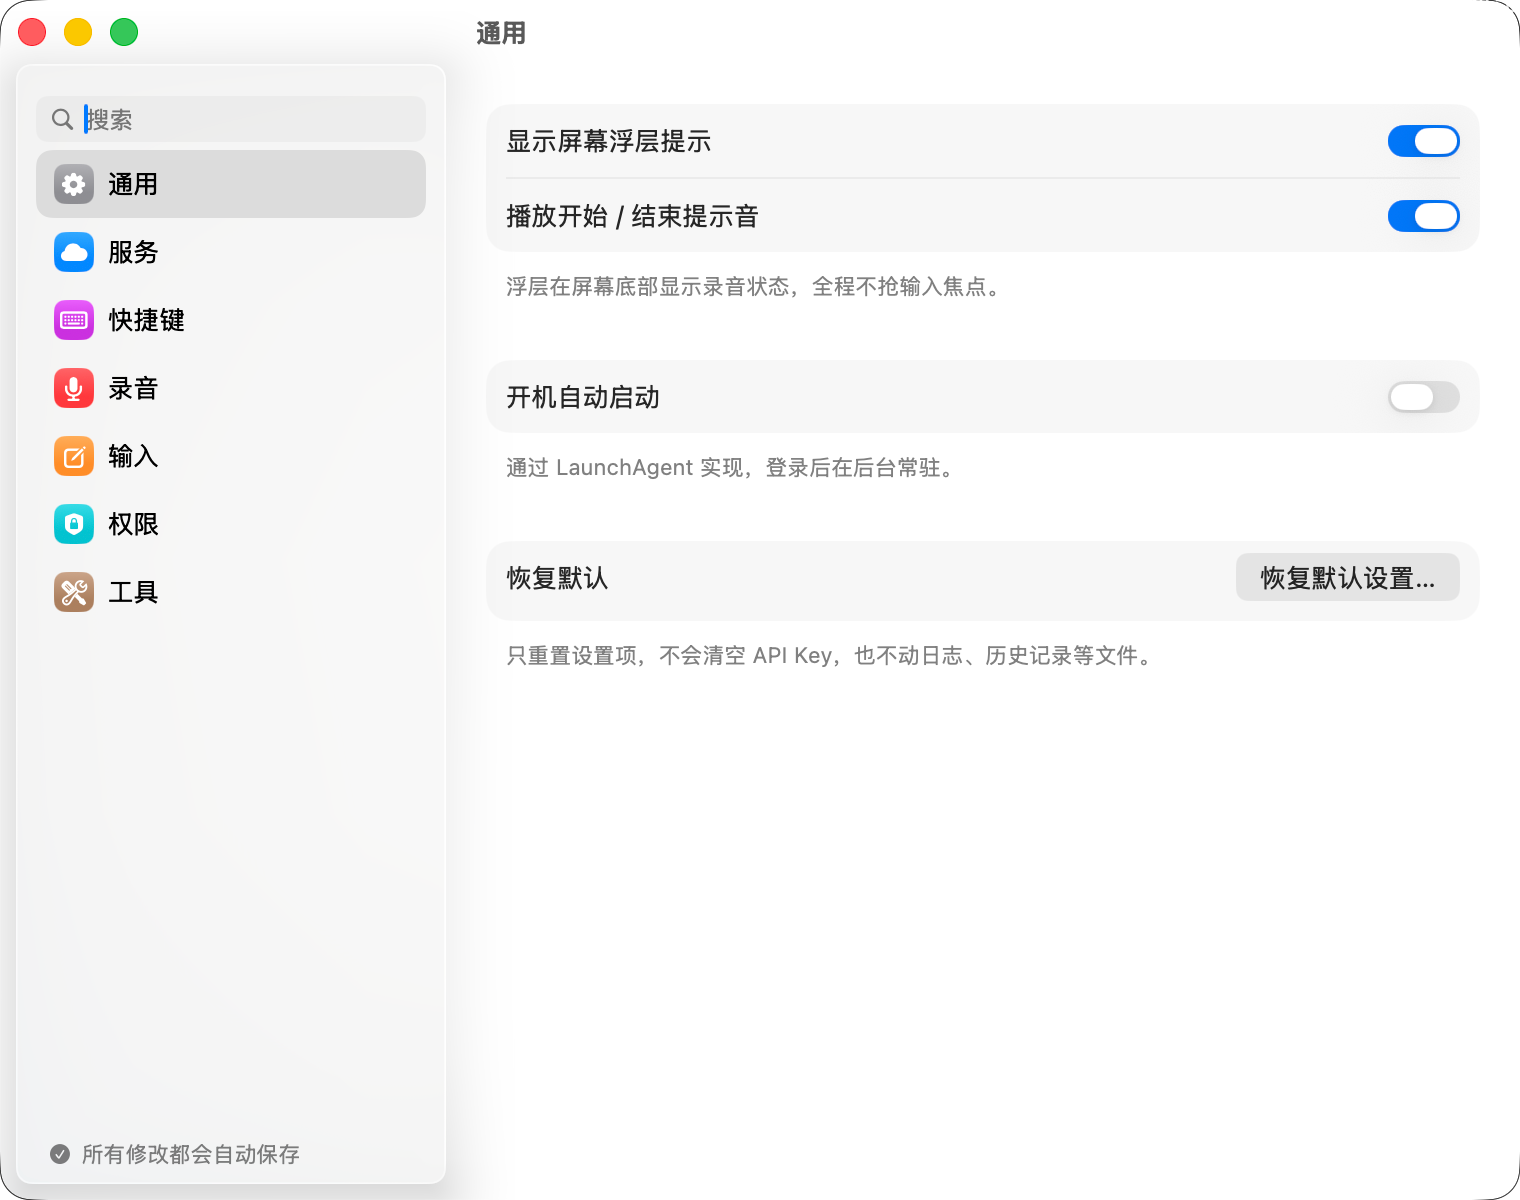
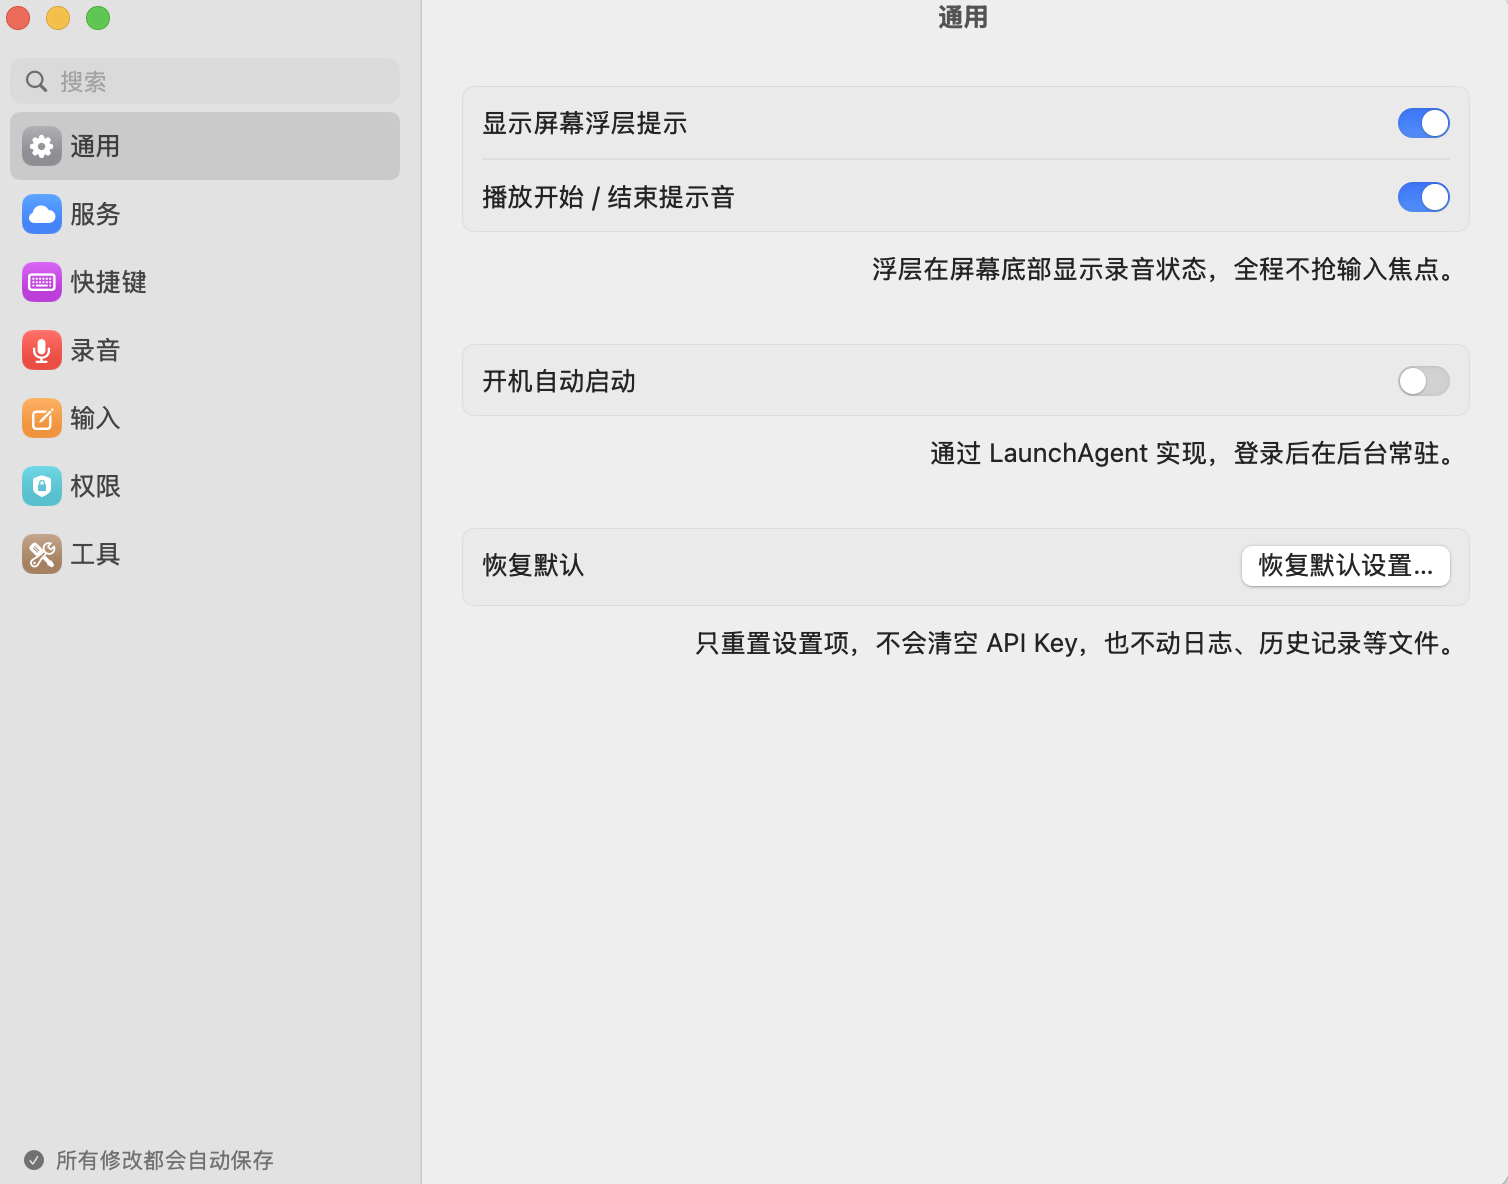
杂货铺：换掉 MyPilot 设置页截图，补上工具页
设置页重截了窗口标题居中那版；新增工具页，连通性自检、配置文件、日志、历史记录、
录音文件都在这一页管。

两张新图的像素尺寸和旧图不同（1508×1184、1502×1182），ratio 按实际尺寸改过，
不然画框会按旧比例撑开、四周露边。

diff --git a/assets/projects.js b/assets/projects.js
@@ -200,7 +200,7 @@ const PROJECTS = [
         type: 'image',
         src: 'assets/media/mypilot/settings.png',
         alt: 'MyPilot 设置窗口：左侧是分组列表，右侧是开关和选项',
-        ratio: '19/15',
+        ratio: '1508/1184',
         caption: '设置也是系统设置那种分组：左边挑分类，右边直接改，改完立刻生效，不用点保存。'
       },
       {
@@ -209,6 +209,13 @@ const PROJECTS = [
         alt: '录音浮层的四种状态：正在听、识别中、已输入、出错了',
         ratio: '380/471',
         caption: '录音时屏幕底部就这一行：音量波形、时长和状态，不抢焦点，说完自己消失。'
+      },
+      {
+        type: 'image',
+        src: 'assets/media/mypilot/tools.png',
+        alt: 'MyPilot 工具分组：连通性自检，以及配置文件、日志、历史记录、录音文件的打开与清空',
+        ratio: '1502/1182',
+        caption: '连通性自检、日志、历史记录、录音文件都在设置里管，不用去翻文件夹。'
       }
     ]
   },
